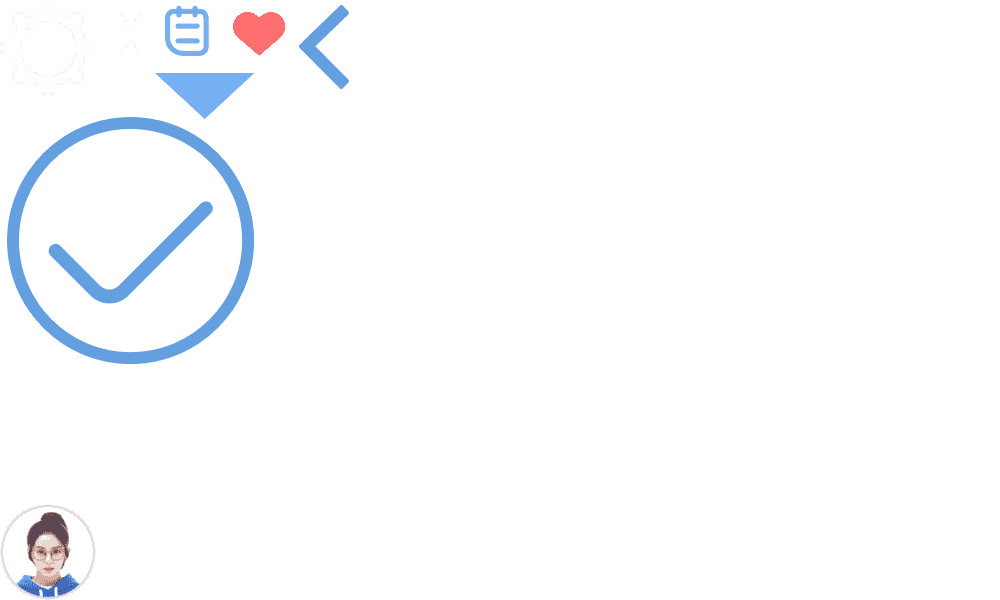
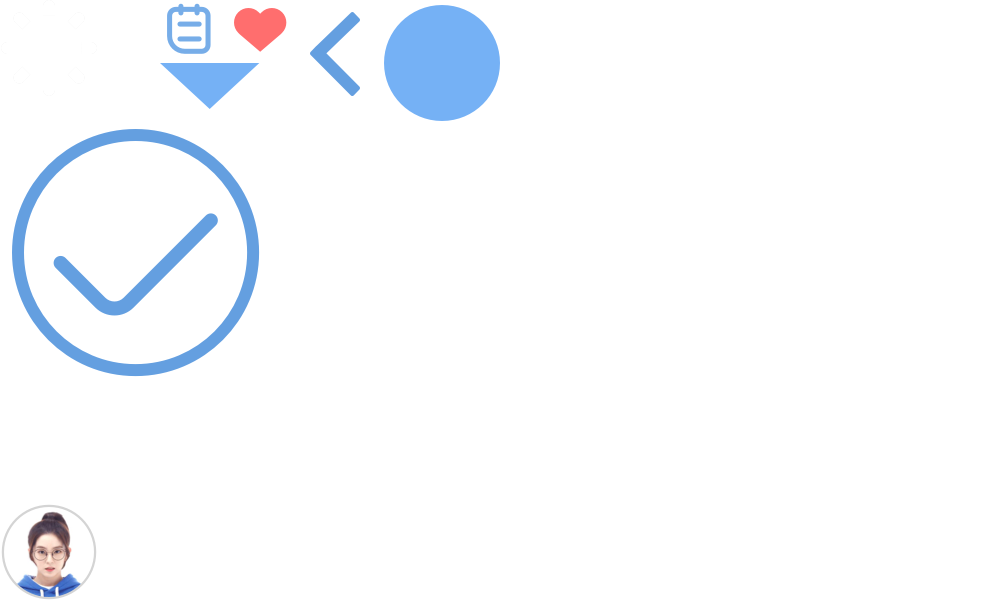
测试上传

Changed region(s): [[0.0, 0.0, 0.527, 0.63], [0.0, 0.84, 0.093, 1.0], [0.248, 0.0, 0.279, 0.03]]

diff --git a/src/components/Hello.vue b/src/components/Hello.vue
@@ -1,5 +1,10 @@
 <template>
   <div class="hello">
+    <div class="page_head">
+        <div class="flex_one" v-html="userHeadImg"></div>
+        <div class="flex_two"></div>
+        <div class="flex_one"></div>
+    </div>
     <h1>{{ msg }}</h1>
     <h2>Essential Links</h2>
     <ul>
@@ -25,7 +30,13 @@ export default {
   name: 'hello',
   data () {
     return {
-      msg: 'Welcome to Your Vue.js App'
+      msg: 'Welcome to Your Vue.js App',
+    }
+  },
+  computed: {
+    userHeadImg: function () {
+      var headImgurl = 'E:/my project/A项目任务/GitHub/yedu/WeChat-service-number/src/assets/head.png';
+      return '<img src= '+ headImgurl +'/>';
     }
   }
 }
@@ -49,5 +60,20 @@ li {
 
 a {
   color: #42b983;
+}
+.page_head{
+  height:124px;
+  width:100%;
+  display:flex;
+}
+.flex_one{
+  flex:1;
+  background:#ccc;
+}
+.flex_two{
+  flex:2;
+}
+.user_head_img{
+   background: url("E:/my project/A项目任务/GitHub/yedu/WeChat-service-number/src/assets/head.png") no-repeat;
 }
 </style>
